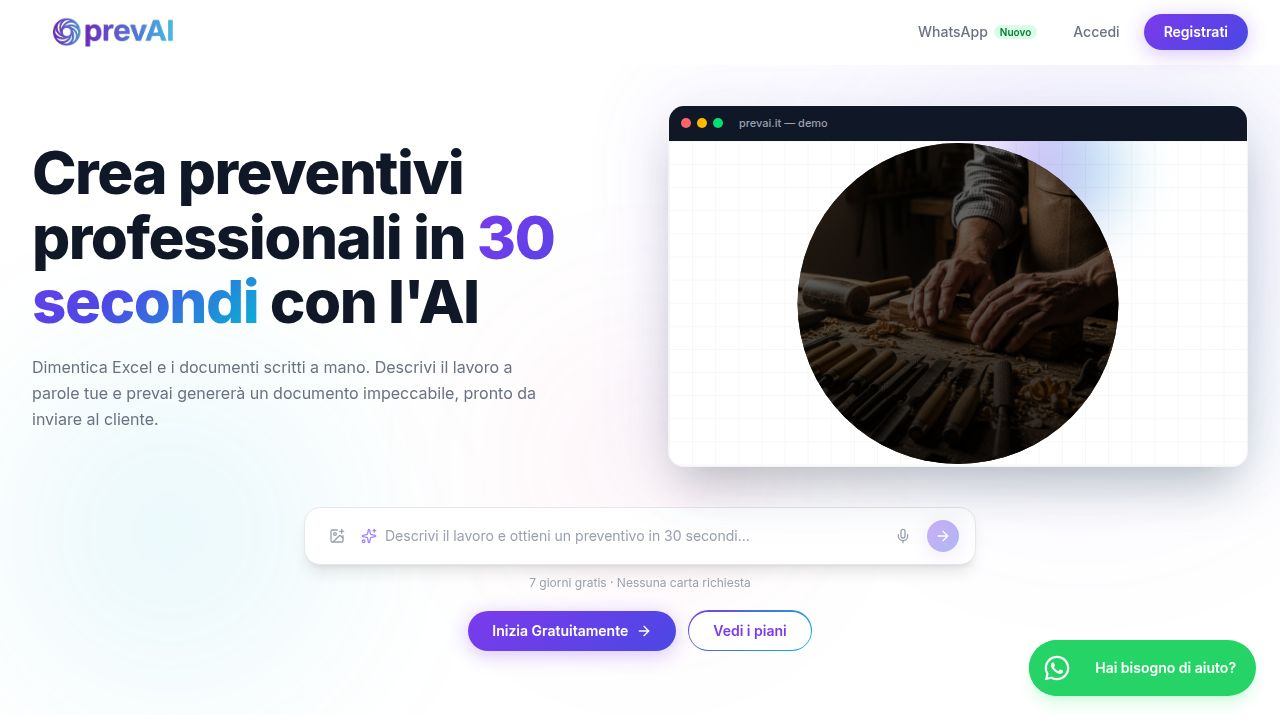
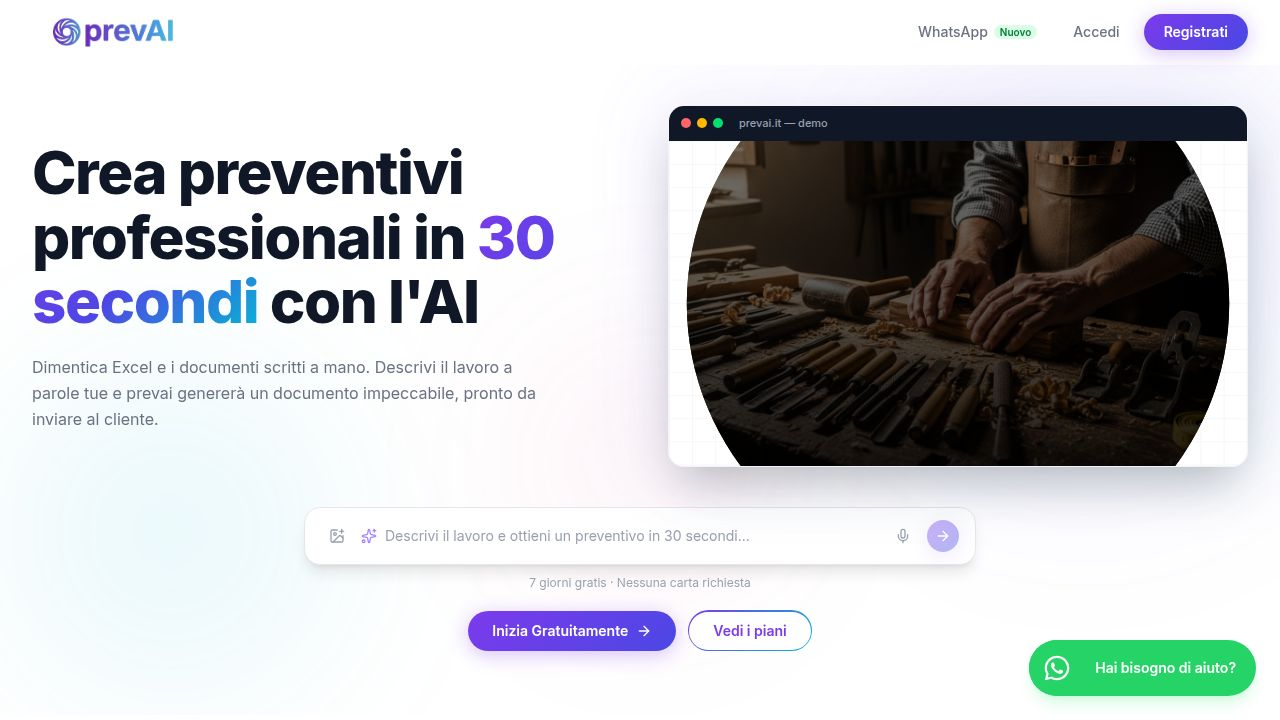
Improve website SEO and user experience with multiple updates
Enhance SEO by adding hreflang tags, Twitter site tag, and updating meta tags. Fixes and improvements to the 404 page, privacy policy, and terms of service. Replaces internal anchor tags with Link components in city landing pages, and updates blog article schema for modified dates.

Replit-Commit-Author: Agent
Replit-Commit-Session-Id: fa90e537-a43f-409b-88ca-5f702c86140e
Replit-Commit-Checkpoint-Type: full_checkpoint
Replit-Commit-Event-Id: 2c3366ea-f7e7-424b-890e-662779ab8200
Replit-Commit-Screenshot-Url: https://storage.googleapis.com/screenshot-production-us-central1/5499c56c-9209-458b-87bc-348e7a6ceb18/fa90e537-a43f-409b-88ca-5f702c86140e/sae892H
Replit-Helium-Checkpoint-Created: true

Changed region(s): [[0.5312, 0.1833, 0.9688, 0.6722]]

diff --git a/artifacts/preventivo-ai/src/pages/not-found.tsx b/artifacts/preventivo-ai/src/pages/not-found.tsx
@@ -1,18 +1,25 @@
 import { Card, CardContent } from "@/components/ui/card";
 import { AlertCircle } from "lucide-react";
+import { SeoHead } from "@/components/seo-head";
 
 export default function NotFound() {
   return (
     <div className="min-h-screen w-full flex items-center justify-center bg-gray-50">
+      <SeoHead
+        title="Pagina non trovata | prevai"
+        description="La pagina che cerchi non esiste."
+        canonical=""
+        noIndex={true}
+      />
       <Card className="w-full max-w-md mx-4">
         <CardContent className="pt-6">
           <div className="flex mb-4 gap-2">
             <AlertCircle className="h-8 w-8 text-red-500" />
-            <h1 className="text-2xl font-bold text-gray-900">404 Page Not Found</h1>
+            <h1 className="text-2xl font-bold text-gray-900">404 — Pagina non trovata</h1>
           </div>
 
           <p className="mt-4 text-sm text-gray-600">
-            Did you forget to add the page to the router?
+            La pagina che stai cercando non esiste o è stata spostata.
           </p>
         </CardContent>
       </Card>

diff --git a/artifacts/preventivo-ai/src/pages/seo/city-landing.tsx b/artifacts/preventivo-ai/src/pages/seo/city-landing.tsx
@@ -1,5 +1,5 @@
 import { useEffect } from "react";
-import { useParams } from "wouter";
+import { useParams, Link } from "wouter";
 import { ArrowRight, CheckCircle2, MapPin, BarChart2, BookOpen } from "lucide-react";
 import { SECTORS, DEFAULT_SECTOR, CITIES_BY_SLUG, getCityTitle, getCityDesc } from "@/data/seo-data";
 import { BLOG_ARTICLES, SECTOR_ARTICLES } from "@/data/blog-data";
@@ -160,9 +160,9 @@ export default function SeoCityLanding() {
       <nav aria-label="Percorso di navigazione" className="bg-white border-b border-gray-100">
         <div className="container mx-auto px-4 sm:px-6 lg:px-8 py-3">
           <ol className="flex items-center text-sm text-gray-500 flex-wrap">
-            <li><a href="/" className="hover:text-violet-600 transition-colors">Home</a></li>
+            <li><Link href="/" className="hover:text-violet-600 transition-colors">Home</Link></li>
             <li aria-hidden="true" className="mx-1.5 text-gray-300 select-none">/</li>
-            <li><a href={`/seo/${s.slug}`} className="hover:text-violet-600 transition-colors">{s.label}</a></li>
+            <li><Link href={`/seo/${s.slug}`} className="hover:text-violet-600 transition-colors">{s.label}</Link></li>
             <li aria-hidden="true" className="mx-1.5 text-gray-300 select-none">/</li>
             <li className="text-gray-900 font-medium truncate max-w-[200px]" aria-current="page">{cityName}</li>
           </ol>
@@ -351,9 +351,9 @@ export default function SeoCityLanding() {
                   </div>
                   <h2 className="text-base font-semibold text-gray-900">Approfondimenti</h2>
                 </div>
-                <a href="/blog" className="text-xs font-semibold text-violet-600 hover:text-violet-700 transition-colors">
+                <Link href="/blog" className="text-xs font-semibold text-violet-600 hover:text-violet-700 transition-colors">
                   Tutti gli articoli →
-                </a>
+                </Link>
               </div>
               <div className="grid sm:grid-cols-3 gap-4">
                 {articles.map((a) => (

diff --git a/artifacts/preventivo-ai/src/components/seo-head.tsx b/artifacts/preventivo-ai/src/components/seo-head.tsx
@@ -17,13 +17,15 @@ interface SeoHeadProps {
   ogType?: string;
   twitterCard?: "summary" | "summary_large_image" | "app" | "player";
   jsonLd?: JsonLdSchema[];
+  noIndex?: boolean;
 }
 
 export function SeoHead({
   title,
   description,
   canonical,
-  ogImage = "/opengraph.jpg",
+  ogImage = "https://www.prevai.it/opengraph.jpg",
+  noIndex = false,
   ogTitle,
   ogDescription,
   ogUrl,
@@ -40,7 +42,8 @@ export function SeoHead({
     <Helmet>
       <title>{title}</title>
       <meta name="description" content={description} />
-      <link rel="canonical" href={canonical} />
+      {canonical && <link rel="canonical" href={canonical} />}
+      {noIndex && <meta name="robots" content="noindex, nofollow" />}
 
       <meta property="og:title" content={resolvedOgTitle} />
       <meta property="og:description" content={resolvedOgDescription} />

diff --git a/artifacts/preventivo-ai/src/pages/privacy.tsx b/artifacts/preventivo-ai/src/pages/privacy.tsx
@@ -1,8 +1,14 @@
 import { PublicLayout } from "@/components/layout/public-layout";
+import { SeoHead } from "@/components/seo-head";
 
 export default function PrivacyPage() {
   return (
     <PublicLayout>
+      <SeoHead
+        title="Privacy Policy | prevai"
+        description="Informativa sulla privacy di prevai — come raccogliamo e trattiamo i tuoi dati personali."
+        canonical="https://www.prevai.it/privacy/"
+      />
       <div className="container mx-auto px-4 py-16 max-w-3xl">
         <h1 className="text-3xl font-bold text-gray-900 mb-2">Privacy Policy</h1>
         <p className="text-sm text-gray-500 mb-10">Ultimo aggiornamento: 6 maggio 2025</p>

diff --git a/artifacts/preventivo-ai/src/pages/termini.tsx b/artifacts/preventivo-ai/src/pages/termini.tsx
@@ -1,8 +1,14 @@
 import { PublicLayout } from "@/components/layout/public-layout";
+import { SeoHead } from "@/components/seo-head";
 
 export default function TerminiPage() {
   return (
     <PublicLayout>
+      <SeoHead
+        title="Termini di Servizio | prevai"
+        description="Termini e condizioni di utilizzo della piattaforma prevai per la generazione di preventivi AI."
+        canonical="https://www.prevai.it/termini/"
+      />
       <div className="container mx-auto px-4 py-16 max-w-3xl">
         <h1 className="text-3xl font-bold text-gray-900 mb-2">Termini di Servizio</h1>
         <p className="text-sm text-gray-500 mb-10">Ultimo aggiornamento: 6 maggio 2025</p>

diff --git a/artifacts/preventivo-ai/index.html b/artifacts/preventivo-ai/index.html
@@ -10,8 +10,9 @@
     <meta name="keywords" content="preventivi online, software preventivi, preventivi per artigiani, preventivi PMI, preventivo digitale, automazione preventivi, preventivi AI, software gestionale leggero" />
     <meta name="robots" content="index, follow" />
     <meta name="author" content="prevai" />
-    <meta name="google-site-verification" content="PLACEHOLDER" />
     <link rel="canonical" href="https://www.prevai.it/" />
+    <link rel="alternate" hreflang="it" href="https://www.prevai.it/" />
+    <link rel="alternate" hreflang="x-default" href="https://www.prevai.it/" />
 
     <!-- Open Graph -->
     <meta property="og:type" content="website" />
@@ -29,6 +30,7 @@
     <meta name="twitter:title" content="prevai – Preventivi Online in 30 Secondi con l'AI" />
     <meta name="twitter:description" content="Software di preventivazione AI per artigiani e PMI italiane. Veloce, professionale, senza errori." />
     <meta name="twitter:image" content="https://www.prevai.it/opengraph.jpg" />
+    <meta name="twitter:site" content="@prevai_it" />
 
     <!-- Favicon -->
     <link rel="icon" type="image/x-icon" href="/favicon.ico" />

diff --git a/artifacts/preventivo-ai/src/pages/blog/[slug].tsx b/artifacts/preventivo-ai/src/pages/blog/[slug].tsx
@@ -59,7 +59,7 @@ export default function BlogArticlePage() {
       description: article.metaDescription,
       url: canonical,
       datePublished: article.publishedAt,
-      dateModified: article.publishedAt,
+      dateModified: article.updatedAt ?? article.publishedAt,
       inLanguage: "it",
       author: { "@type": "Organization" as const, name: "prevai", url: BASE_URL },
       publisher: {

diff --git a/artifacts/preventivo-ai/src/data/blog-data.ts b/artifacts/preventivo-ai/src/data/blog-data.ts
@@ -4,6 +4,7 @@ export interface BlogArticle {
   metaDescription: string;
   category: string;
   publishedAt: string;
+  updatedAt?: string;
   readingTimeMin: number;
   relatedSectors: string[];
   contentHtml: string;